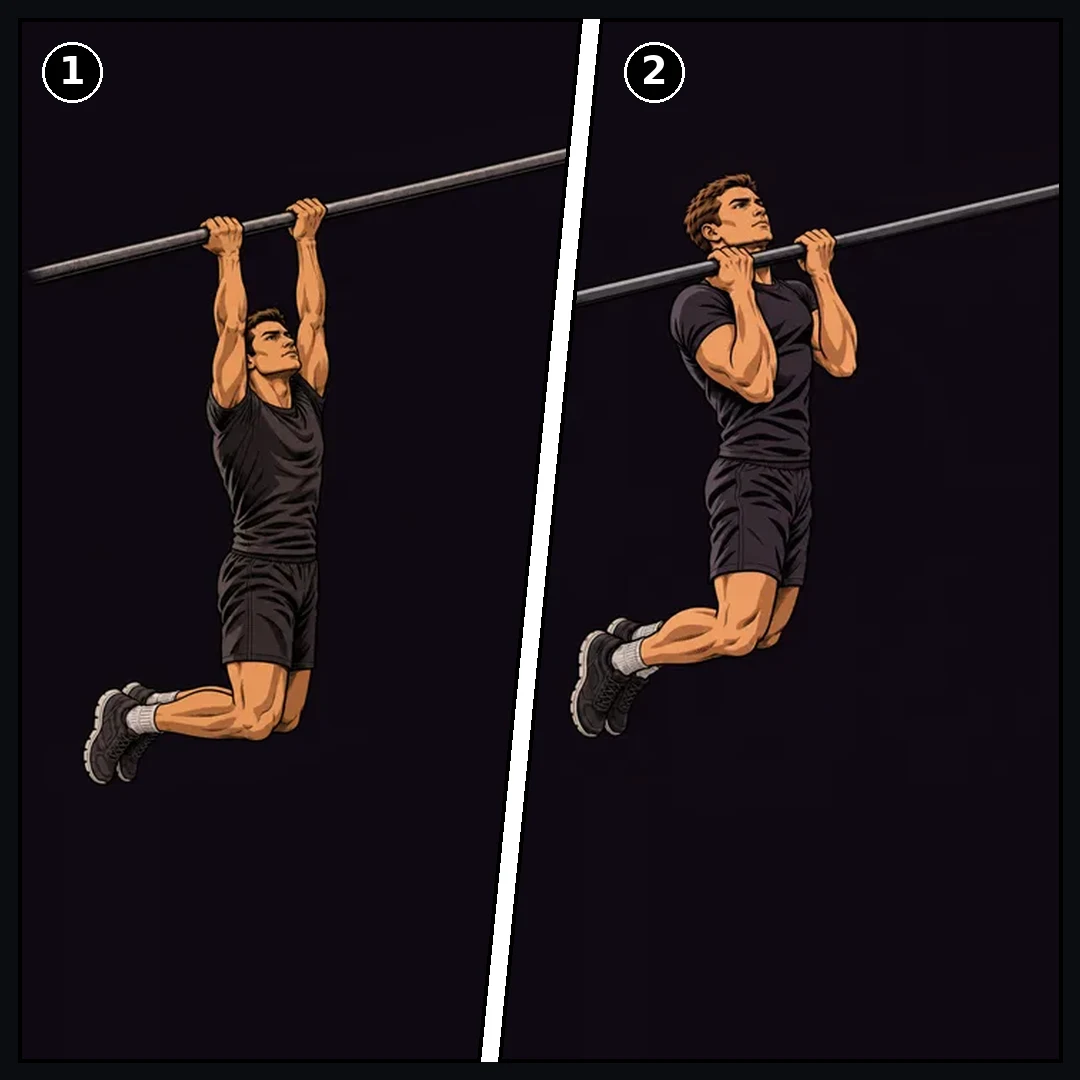
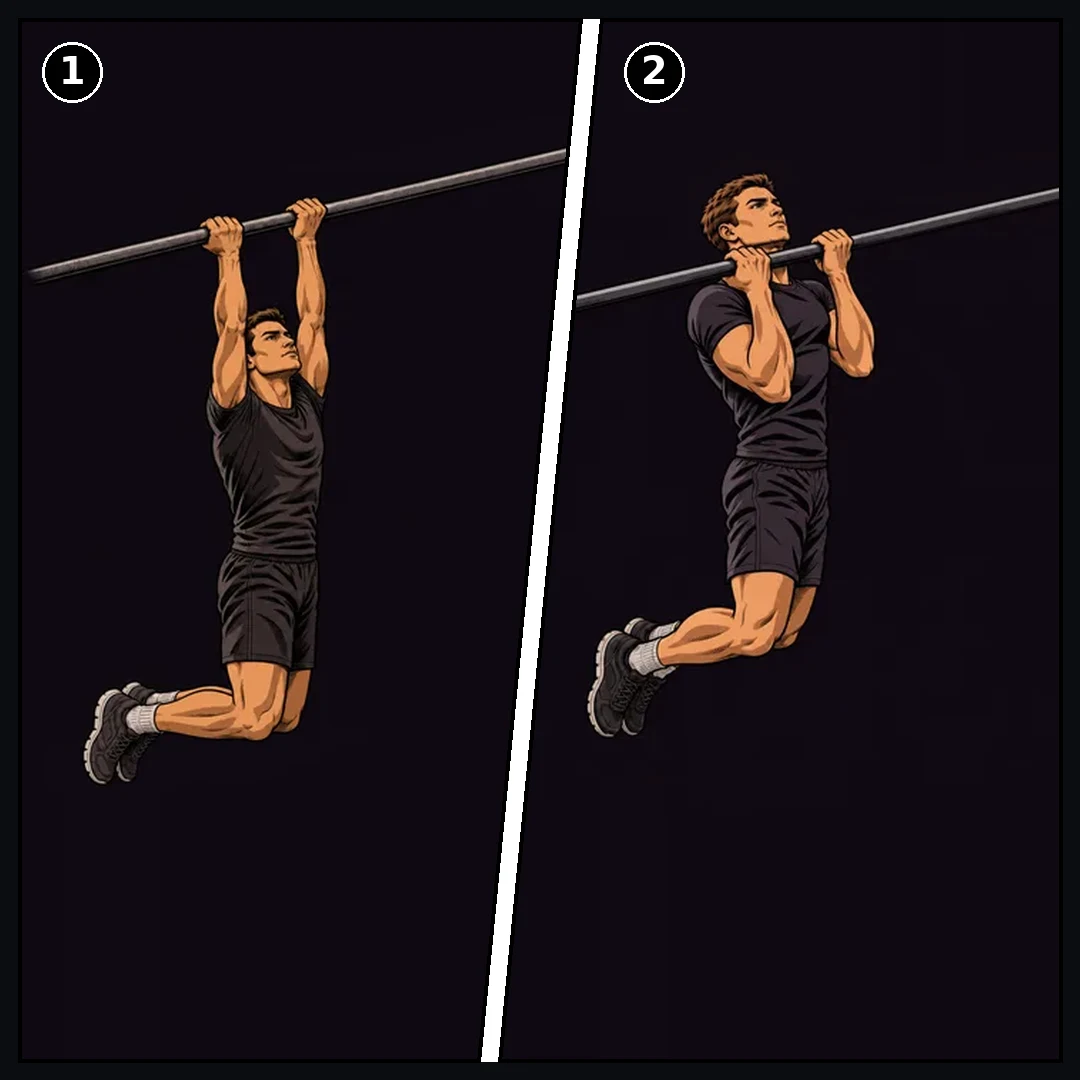
Comic pages: negative pull-up centred on a straight gutter, chin-up further right
Negative pull-up keeps one camera for both panels but centres each on its
own body's mass (the bar's width no longer pulls it sideways), zooms in, and
splits on an upright gutter (layout "straight"). Chin-up's second panel
moves right once more.

Changed region(s): [[0.5194, 0.1528, 0.9778, 0.7028]]

diff --git a/scripts/bd-planches.py b/scripts/bd-planches.py
@@ -135,11 +135,14 @@ CONFIG = {
     "mountain_climber": ([0, 1, 2], "rows"),  # one knee in, both feet down, the other knee in
     "toes_to_bar": ([0, 2, 3], "bottom3"),
     "hanging_leg_raise": ([0, 3], None),  # legs level, the top of the raise (2 was halfway)
+    "negative_pullup": ([0, 1], "straight"),  # Guillaume, 12/11: both centred, a straight gutter
     "cat_cow": ([1, 3], None),  # the two extremes: back hollow, back rounded
     "single_leg_deadlift": ([0, 3], "split"),
 }
 # Each panel framed on its own body, not one camera for the page: the positions differ too much in height.
 OWN_CROP = {"muscle_up", "toes_to_bar", "single_leg_deadlift", "jump_squat"}
+# One camera for the page, but each panel centred on its own body's mass (a bar's width does not count).
+CENTRE_OWN = {"negative_pullup"}
 # Jump arrows, in the panel's own fractions: (panel index, start, end). None since Guillaume's review of 12/11
 # ("enlève la flèche"): the two poses say the jump on their own.
 JUMPS: dict = {}
@@ -151,7 +154,7 @@ EXTEND = {"curtsy_squat", "wall_pushup", "star_jump", "jump_squat", "thread_the_
           "russian_twist", "single_leg_glute_bridge", "chin_up", "pullups", "hanging_leg_raise", "knee_pushup", "muscle_up", "jumping_jack"}
 TUNE = {
     "bear_crawl": [None, (1, 0, 0.11)],
-    "chin_up": [(1.25, 0, 0), (1.25, 0.05, 0.03)],
+    "chin_up": [(1.25, 0, 0), (1.25, 0.08, 0.03)],
     "crunch": [(1, 0, -0.05), (1, 0, 0.09)],
     "diamond_pushup": [None, (1, 0, 0.04)],
     "jumping_jack": [None, (1, 0.03, 0)],
@@ -160,7 +163,7 @@ TUNE = {
     "high_knees": [(1.12, 0, 0.03), (1.12, 0, 0.03)],
     "jump_squat": [(1.35, 0, 0.02), (1.3, 0, 0.02), (1.1, 0.05, 0.12)],
     "muscle_up": [(1.35, 0, 0.05), (1.35, 0, 0.02), (1.35, 0, 0.19), (1.35, 0, 0.13)],
-    "negative_pullup": [(1.35, -0.11, 0.04), (1.35, -0.05, 0.02)],
+    "negative_pullup": [(1.4, 0, 0.03), (1.4, 0, 0.02)],
     "pullups": [(1.35, 0, 0.03), (1.35, 0, 0.03)],
     "reverse_crunch": [(1.1, 0, 0), (1.1, 0, 0)],
     "russian_twist": [None, (1.12, 0, 0.11)],
@@ -278,9 +281,10 @@ def layouts(name, aspect=1.0, n=3):
         mx = W * 0.36
         return [[(L, g), (mx + t - g / 2, g), (mx - t - g / 2, H - g), (L, H - g)],
                 [(mx + t + g / 2, g), (R, g), (R, H - g), (mx - t + g / 2, H - g)]], H
-    if name == "side":
+    if name in ("side", "straight"):  # "straight": an upright gutter, for two panels that must both be centred
         H = W
         mx = W / 2
+        t = 0 if name == "straight" else t
         return [[(L, g), (mx + t - g / 2, g), (mx - t - g / 2, H - g), (L, H - g)],
                 [(mx + t + g / 2, g), (R, g), (R, H - g), (mx - t + g / 2, H - g)]], H
     H = W
@@ -361,6 +365,12 @@ def page(slug, numbers):
         rect = (round(min(xs)), round(min(ys)), round(max(xs)), round(max(ys)))
         size = (rect[2] - rect[0], rect[3] - rect[1])
         b = body_box(im) if slug in OWN_CROP else box
+        if slug in CENTRE_OWN:
+            cols = body_mask(im).point(lambda v: 1 if v > 128 else 0).resize((im.width, 1), Image.BOX)
+            weights = list(cols.getdata())
+            cx = sum(i * v for i, v in enumerate(weights)) / max(1, sum(weights))
+            half = (b[2] - b[0]) / 2
+            b = (cx - half, b[1], cx + half, b[3])
         # The slanted edges eat up to TILT pixels of the panel: keep the body clear of them.
         k_y = (b[3] - b[1]) / size[1]
         k_x = (b[2] - b[0]) / size[0]
